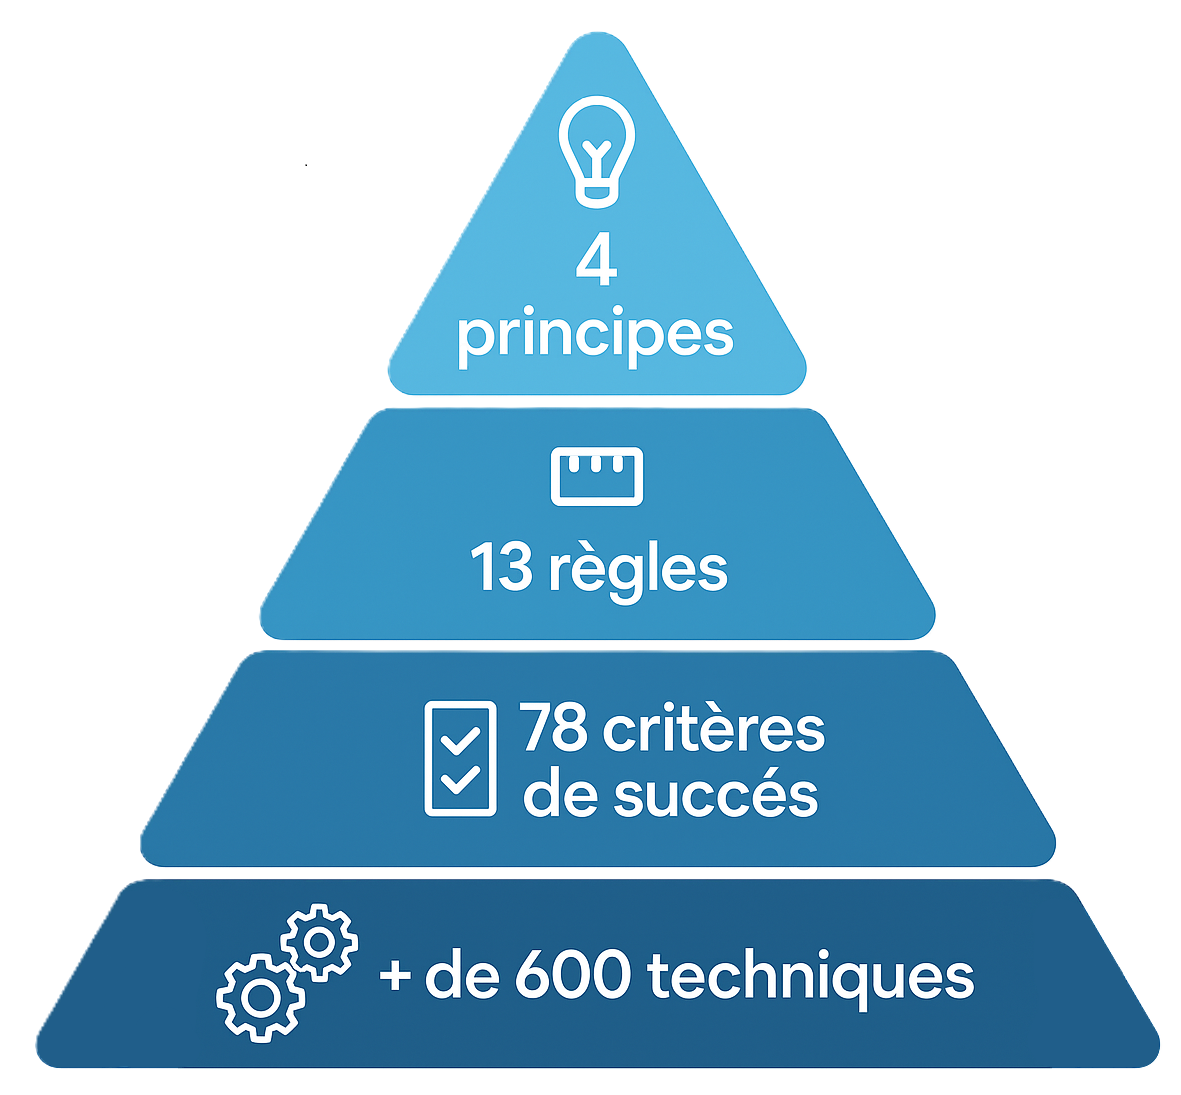
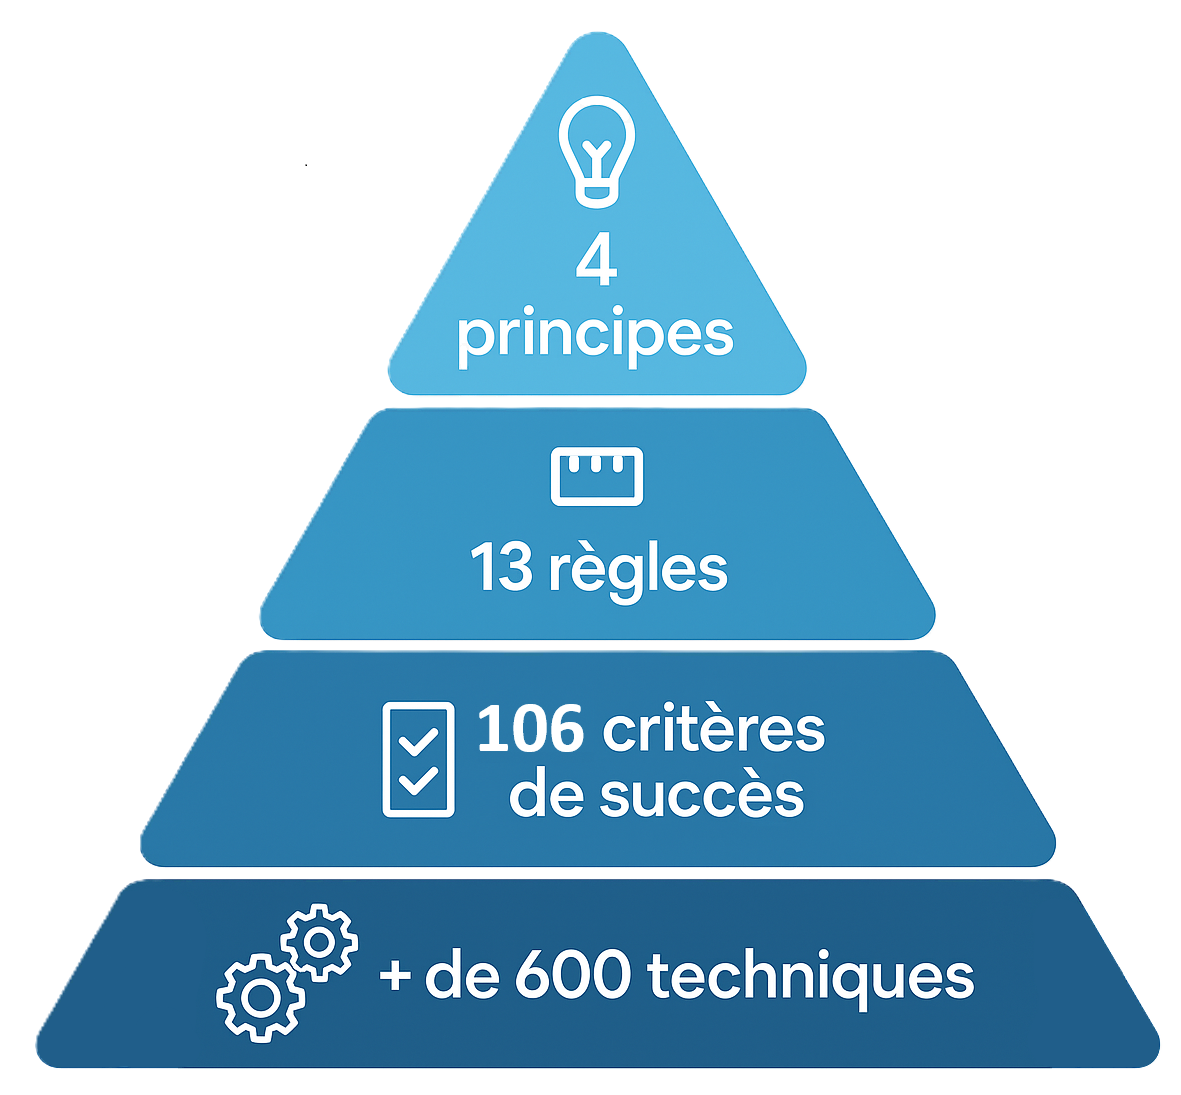
refacto: quides 2

Changed region(s): [[0.3048, 0.621, 0.7011, 0.7452]]

diff --git a/index.htm b/index.htm
@@ -281,7 +281,7 @@
                 <h3>RGAA</h3>
                 <div class="columns-2">
                     <!-- TODO: add detailed description in alt -->
-                    <img class="pyramid" src="img_slide/rgaa-pyramid.png" alt="Pyramide du RGAA">
+                    <img class="pyramid" src="img_slide/rgaa-pyramid-2.png" alt="Pyramide du RGAA">
 
                     <section class="right-side Cmasque">
                         <img src="img_slide/arrow-right.svg" alt="" class="arrow">
@@ -319,7 +319,7 @@
                 <h3>RGAA</h3>
                 <div class="columns-2">
                     <!-- TODO: add detailed description in alt -->
-                    <img class="pyramid" src="img_slide/rgaa-pyramid.png" alt="Pyramide du RGAA">
+                    <img class="pyramid" src="img_slide/rgaa-pyramid-2.png" alt="Pyramide du RGAA">
 
                     <section class="right-side">
                         <img src="img_slide/arrow-right.svg" alt="" class="arrow">
@@ -364,7 +364,7 @@
                 <h3>RGAA</h3>
                 <div class="columns-2">
                     <!-- TODO: add detailed description in alt -->
-                    <img class="pyramid" src="img_slide/rgaa-pyramid.png" alt="Pyramide du RGAA">
+                    <img class="pyramid" src="img_slide/rgaa-pyramid-2.png" alt="Pyramide du RGAA">
 
                     <section class="right-side">
                         <img src="img_slide/arrow-right.svg" alt="" class="arrow">

diff --git a/css/themes/neosoft.css b/css/themes/neosoft.css
@@ -150,10 +150,13 @@ body {
             }
 
             .description {
-                border: 2px solid red;
+                /*--color: var(--neosoft-blue);*/
+                --color: hsl(150deg, 100%, 30%);
+
+                border: 2px solid var(--color);
                 border-radius: 1rem;
-                color: red;
-                padding-inline: 1rem;
+                color: var(--color);
+                padding: 0.25rem 1rem;
                 text-align:  center;
             }
 
